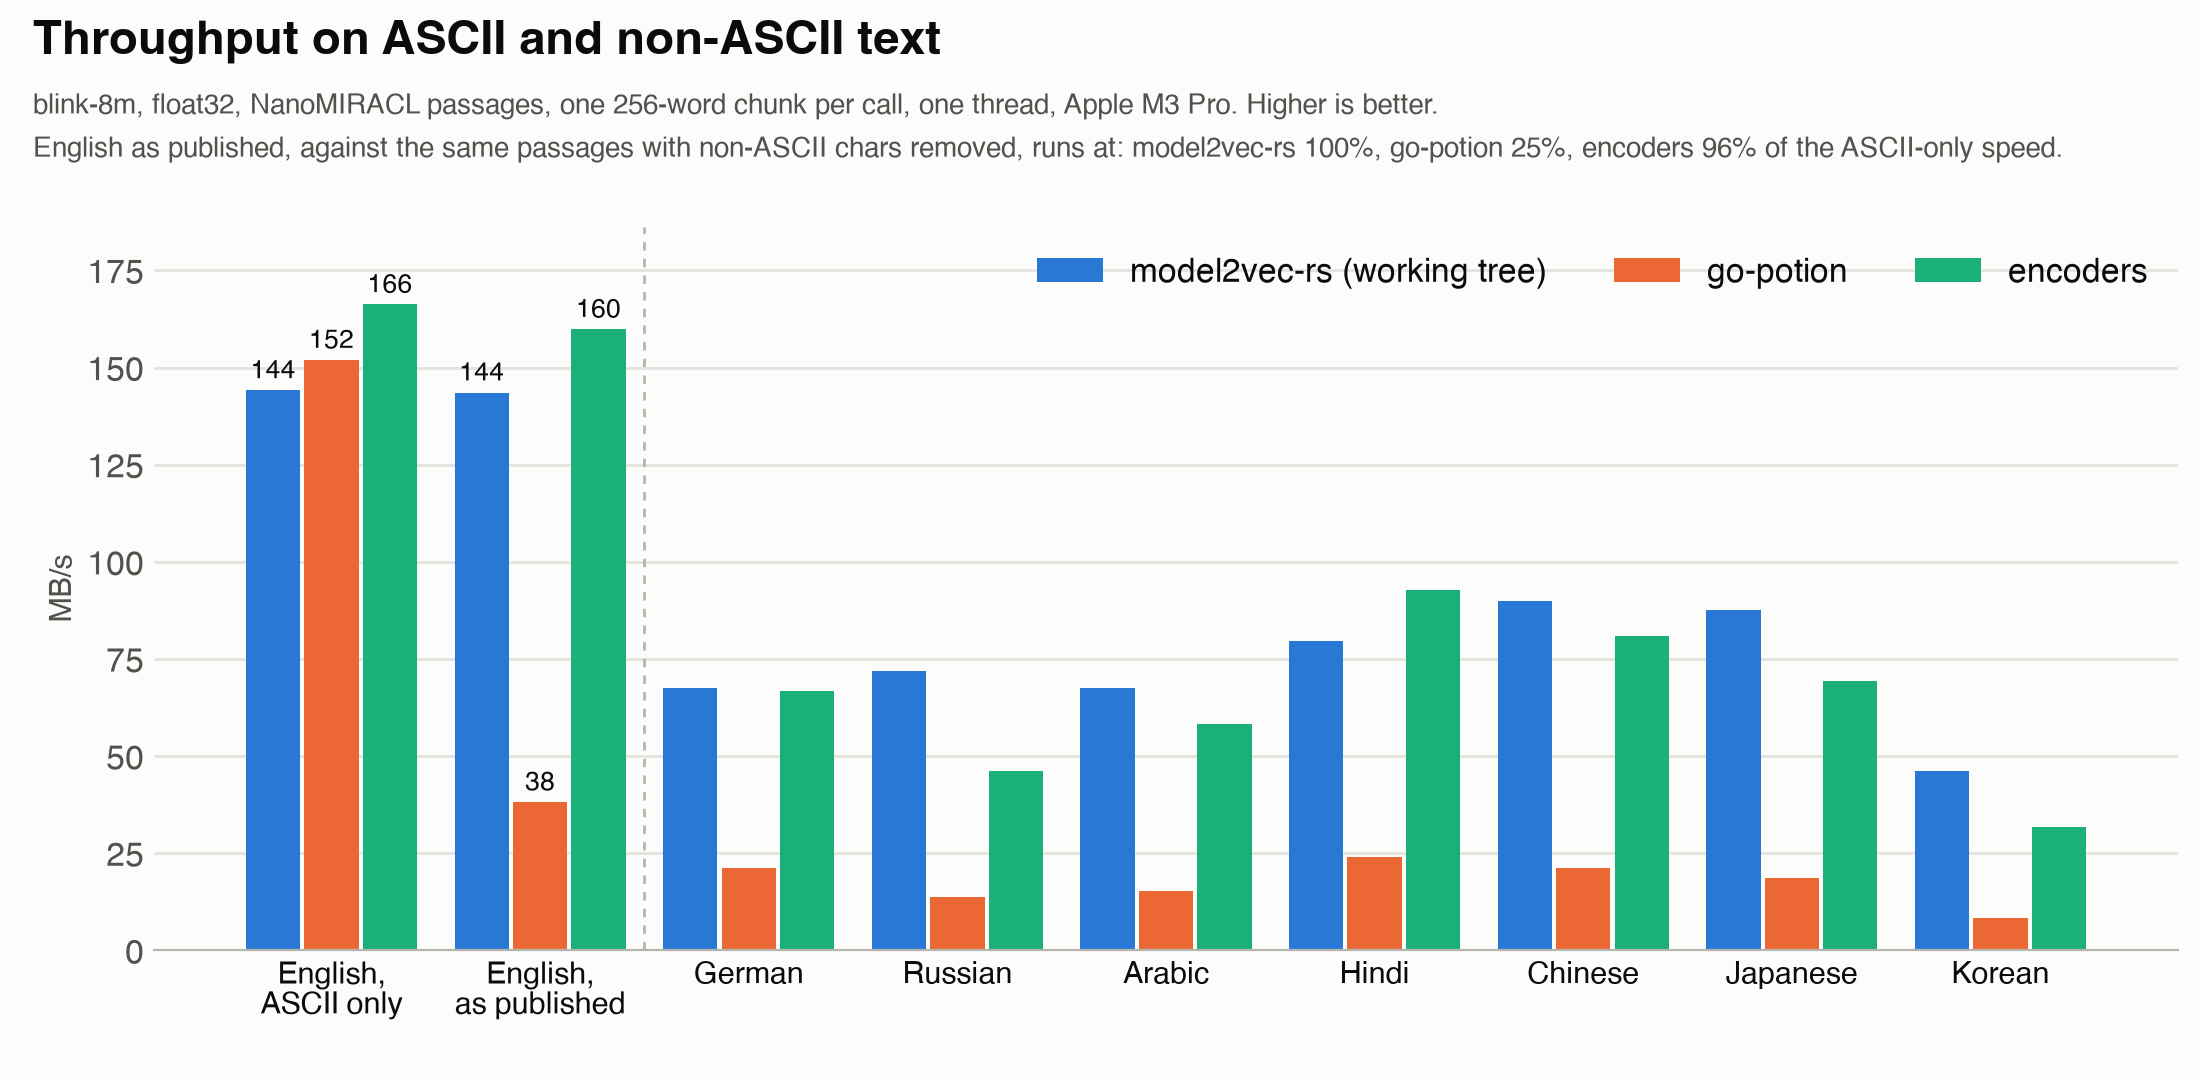
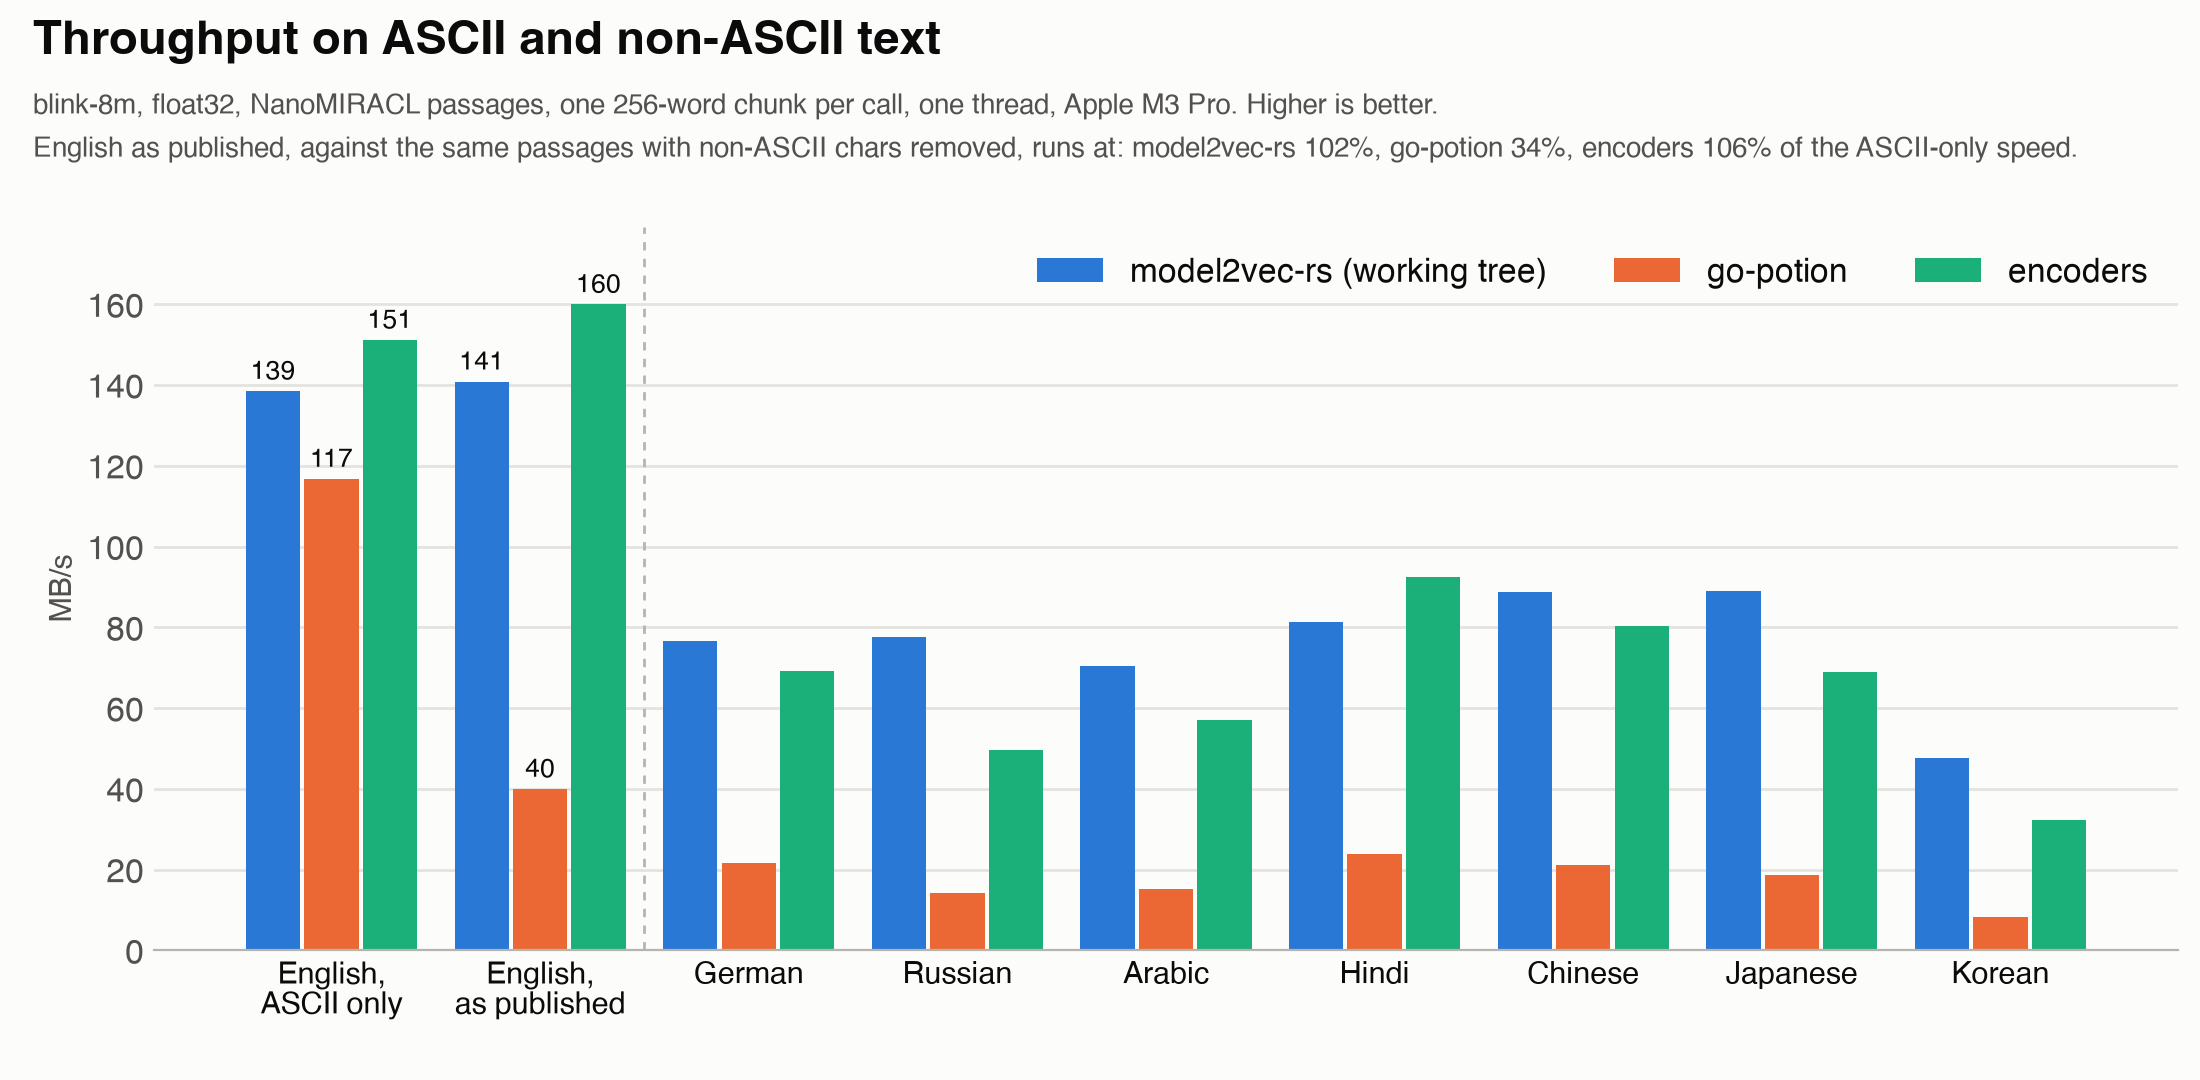
feat: increase int8 throughput (#87)

diff --git a/src/model.rs b/src/model.rs
@@ -744,8 +744,16 @@ impl StaticModel {
         };
         let denom = cnt.max(1) as f32;
         if normalize {
-            let mut sq = 0.0_f32;
-            for x in sum.iter_mut() {
+            let mut lanes = [0.0_f32; 16];
+            let (chunks, tail) = sum.as_chunks_mut::<16>();
+            for c in chunks {
+                for (l, x) in lanes.iter_mut().zip(c) {
+                    *x /= denom;
+                    *l += *x * *x;
+                }
+            }
+            let mut sq: f32 = lanes.iter().sum();
+            for x in tail {
                 *x /= denom;
                 sq += *x * *x;
             }
@@ -803,14 +811,19 @@ impl StaticModel {
     {
         let mut pending: [(&[T], f32); BLOCK] = [(&[], 0.0); BLOCK];
         let mut n = 0;
-        let cnt = self.for_each_row(table, ids, |row, scale| {
-            pending[n] = (row, scale);
-            n += 1;
-            if n == BLOCK {
-                add_rows(sum, &pending);
-                n = 0;
-            }
-        });
+        let cnt = self.for_each_row(
+            table,
+            ids,
+            #[inline(always)]
+            |row, scale| {
+                pending[n] = (row, scale);
+                n += 1;
+                if n == BLOCK {
+                    add_rows(sum, &pending);
+                    n = 0;
+                }
+            },
+        );
         for &(row, scale) in &pending[..n] {
             add_row(sum, row, scale);
         }
@@ -861,14 +874,18 @@ impl StaticModel {
         let mut n = 0;
         match &self.inner.row_shifts {
             None => {
-                let cnt = self.for_each_row_index(ids, |row| {
-                    rows[n] = &table[row * dim..(row + 1) * dim];
-                    n += 1;
-                    if n == BLOCK {
-                        add_rows_int(acc, &rows);
-                        n = 0;
-                    }
-                });
+                let cnt = self.for_each_row_index(
+                    ids,
+                    #[inline(always)]
+                    |row| {
+                        rows[n] = &table[row * dim..(row + 1) * dim];
+                        n += 1;
+                        if n == BLOCK {
+                            add_rows_int(acc, &rows);
+                            n = 0;
+                        }
+                    },
+                );
                 for row in &rows[..n] {
                     for (a, &v) in acc.iter_mut().zip(*row) {
                         *a += i32::from(v);
@@ -878,15 +895,19 @@ impl StaticModel {
             }
             Some(row_shifts) => {
                 let mut shifts = [0_u32; BLOCK];
-                let cnt = self.for_each_row_index(ids, |row| {
-                    rows[n] = &table[row * dim..(row + 1) * dim];
-                    shifts[n] = u32::from(row_shifts[row]);
-                    n += 1;
-                    if n == BLOCK {
-                        add_rows_int_shifted(acc, &rows, &shifts);
-                        n = 0;
-                    }
-                });
+                let cnt = self.for_each_row_index(
+                    ids,
+                    #[inline(always)]
+                    |row| {
+                        rows[n] = &table[row * dim..(row + 1) * dim];
+                        shifts[n] = u32::from(row_shifts[row]);
+                        n += 1;
+                        if n == BLOCK {
+                            add_rows_int_shifted(acc, &rows, &shifts);
+                            n = 0;
+                        }
+                    },
+                );
                 for (row, &shift) in rows[..n].iter().zip(&shifts) {
                     for (a, &v) in acc.iter_mut().zip(*row) {
                         *a += i32::from(v) << shift;

diff --git a/scripts/speedup_chart.py b/scripts/speedup_chart.py
@@ -68,12 +68,18 @@ def main() -> None:
         for g, (value, note) in enumerate(zip(values, notes)):
             y = g + (i - 0.5) * (height + gap)
             ax.barh(y, value, height=height, color=color, label=name if g == 0 else None)
-            ax.text(value + 0.4, y, f"{value:.1f}×", va="center", fontsize=12, fontweight="bold", color=INK)
-            ax.text(value + 4.0, y, note, va="center", fontsize=10, color=MUTED)
+            label = ax.annotate(
+                f"{value:.1f}×", (value, y), xytext=(6, 0), textcoords="offset points",
+                va="center", fontsize=12, fontweight="bold", color=INK,
+            )
+            ax.annotate(
+                note, (1, 0.5), xycoords=label, xytext=(8, 0), textcoords="offset points",
+                va="center", fontsize=10, color=MUTED,
+            )
     ax.set_yticks(range(len(GROUPS)), GROUPS, fontsize=13, color=INK)
     ax.invert_yaxis()
     top = max(v for *_, values, _ in series for v in values)
-    ax.set_xlim(0, max(40, 5 * -(-(top + 13) // 5)))
+    ax.set_xlim(0, max(40, 5 * -(-(top * 1.3 + 4) // 5)))
     ax.xaxis.set_major_formatter(lambda x, _: f"{x:.0f}×")
     ax.tick_params(axis="x", colors=MUTED, length=0)
     ax.tick_params(axis="y", length=0)

diff --git a/tests/test_pooling.rs b/tests/test_pooling.rs
@@ -153,7 +153,7 @@ impl Case {
                     *x /= denom;
                 }
                 if self.normalize {
-                    let norm = sum.iter().map(|&v| v * v).sum::<f32>().sqrt().max(1e-12);
+                    let norm = squared_norm(&sum).sqrt().max(1e-12);
                     for x in &mut sum {
                         *x /= norm;
                     }
@@ -162,6 +162,22 @@ impl Case {
             })
             .collect()
     }
+}
+
+/// Sum of squares over 16 interleaved lanes, then the tail.
+fn squared_norm(v: &[f32]) -> f32 {
+    let mut lanes = [0.0_f32; 16];
+    let (chunks, tail) = v.as_chunks::<16>();
+    for c in chunks {
+        for (l, &x) in lanes.iter_mut().zip(c) {
+            *l += x * x;
+        }
+    }
+    let mut sq: f32 = lanes.iter().sum();
+    for &x in tail {
+        sq += x * x;
+    }
+    sq
 }
 
 /// Token IDs per text after character truncation, tokenization, token

diff --git a/README.md b/README.md
@@ -229,11 +229,11 @@ We compared `model2vec-rs` with the Python version of Model2Vec by encoding the 
 
 | Implementation | Single thread       | All cores             | Model load |
 | -------------- | ------------------- | --------------------- | ---------- |
-| **Rust**       | 891K texts/second   | 3.33M texts/second    | 30 ms      |
-| **Python**     | 43K texts/second    | 132K texts/second     | 490 ms     |
-| **Speedup**    | **20.6×**           | **25.3×**             | **16.1×**  |
+| **Rust**       | 1.13M texts/second  | 4.93M texts/second    | 30 ms      |
+| **Python**     | 45K texts/second    | 134K texts/second     | 464 ms     |
+| **Speedup**    | **25.4×**           | **36.9×**             | **15.5×**  |
 
-On a single thread, the Rust version is roughly **20×** faster than the Python version, and about **25×** faster when using all cores. With int8 models the speedup is larger:
+On a single thread, the Rust version is roughly **25×** faster than the Python version, and about **37×** faster when using all cores. With int8 models the speedup is larger:
 
 <div align="center">
   <img width="85%" alt="model2vec-rs speedup over Python model2vec" src="assets/images/speedup.png">
@@ -257,12 +257,12 @@ Benchmark details:
 *   **All cores:** Rust with Rayon parallelism; Python with tokenizer parallelism and `use_multiprocessing=False`. Python's default `use_multiprocessing=True` spreads the texts over a process pool, which makes it slower.
 *   **Method:** 5 alternating rounds of Rust and Python processes, 5 timed passes each after one warm-up pass; throughput is the median over the 25 passes.
 *   **Model load:** median time over all 10 process launches per side to load the model from the local Hugging Face cache; for Python this includes importing `model2vec`.
-*   **Output:** for float32, the Rust and Python embeddings differ by at most 1.5e-7 per value (minimum cosine similarity 0.9999998).
+*   **Output:** for float32, the Rust and Python embeddings differ by at most 6.0e-8 per value (minimum cosine similarity 0.9999999).
 *   **int8:** the model is quantized at load time on both sides, with `quantize_int8` in Rust and `quantize_to="int8"` in Python. Rust keeps one scale per column plus a power-of-two scale per row and Python one scale for the whole table, so the int8 embeddings differ between the two; these bars compare speed only.
 
 ## Relation to Python `model2vec`
 
-*   **`model2vec-rs` (This Crate):** High-performance Rust engine for up to 34x faster **Model2Vec inference**.
+*   **`model2vec-rs` (This Crate):** High-performance Rust engine for up to 51x faster **Model2Vec inference**.
 *   **[`model2vec`](https://github.com/MinishLab/model2vec) (Python-based):** Handles model **distillation, training, fine-tuning**, and slower Python-based inference.
 
 ## License

diff --git a/python/README.md b/python/README.md
@@ -36,7 +36,7 @@ We encoded the same 666,808 Wikipedia paragraphs (11M words) with [`blink-8m`](h
   <img width="85%" alt="Encoding throughput of Rust, the Python bindings and Python model2vec" src="https://raw.githubusercontent.com/MinishLab/model2vec-rs/main/assets/images/bindings_throughput.png">
 </p>
 
-On a single thread the bindings are about as fast as Rust and roughly **20×** faster than `model2vec`; on all cores they are roughly **34×** faster than `model2vec`.
+On a single thread the bindings are about as fast as Rust and roughly **24×** faster than `model2vec`; on all cores they are roughly **38×** faster than `model2vec`.
 
 To reproduce (from the repository root):
 
